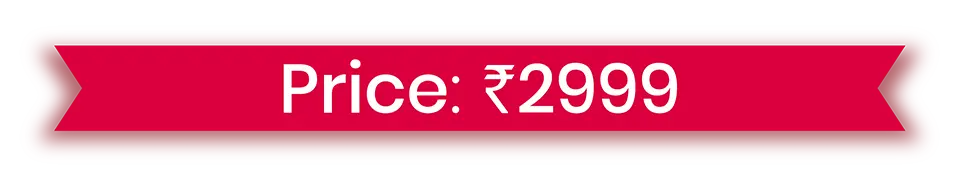
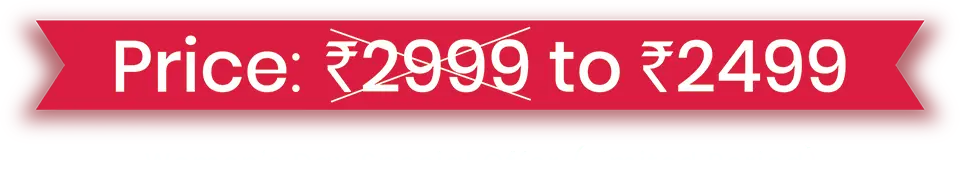
Changes

diff --git a/css/style.css b/css/style.css
@@ -312,6 +312,9 @@ section .inner_container{
 	background-position: center;
 	padding: var(--header-height) 0 0 0;
 }
+.hero .contain_90{
+	margin: auto auto 0 auto;
+}
 .hero .heart{
 	position: absolute;
     left: 6vw;
@@ -324,6 +327,7 @@ section .inner_container{
 }
 .hero .text_box{
 	opacity: 0;
+	padding: 0 0 0 5vw;
 }
 .hero .img_box{
 	opacity: 0;
@@ -344,6 +348,11 @@ section .inner_container{
 }
 .about .heart img{
     transform: rotate(34deg);
+}
+.about .left_pane .img_box{
+	width: 70%;
+	margin: auto;
+	padding: 0 5vw 0 0;
 }
 .about .right_pane{
 	position: relative;
@@ -397,6 +406,11 @@ section .inner_container{
     top: 26%;
     width: 7.2vw;
     z-index: 1;
+}
+.about .text_box .title{
+	color: #fff;
+	font-size: clamp(16px, 1.5vw, 1.5vw);
+	padding: 0 0 3vw;
 }
 .why_love{
 	background: url(../images/bg/webp/white-bg.webp) no-repeat;
@@ -635,6 +649,7 @@ footer .heart{
 footer .price_band{
 	width: 50%;
 	margin: auto;
+	padding: 0 0 1vw;
 }
 footer .offer_valid{
 	font-size: 1.4vw;

diff --git a/css/responsive.css b/css/responsive.css
@@ -241,7 +241,18 @@ section{
 	/*min-height: unset;*/
 }
 .hero{
-	padding: calc(10vw + var(--header-height)) 0 10vw 0;
+	padding: calc(10vw + var(--header-height)) 0 0 0;
+	align-items: unset;
+}
+.hero .contain_90 {
+    margin: 0 auto;
+    display: flex;
+}
+.hero .contain_90 .inner_container{
+    align-items: flex-start;
+}
+.hero .text_box{
+	padding: 10vw 0;
 }
 .hero .heart{
 	width: 20vw;
@@ -257,6 +268,12 @@ section .inner_container p br{
 }
 .about .heart{
 	width: 25%;
+}
+.about .inner_container{
+	flex-wrap: wrap;
+}
+.about .left_pane .img_box{
+	padding: 0 0 10vw;
 }
 .about .right_pane .heart_left{
 	width: 13.5vw;

diff --git a/index.php b/index.php
@@ -14,19 +14,22 @@
         <div class="inner_container">
 
             <div class="width_50">
-                <div class="text_box fade-in-left">
-                    <div class="heading">LOVE, GIFTED LIKE A MASTERPIECE.</div>
-                    <div class="text">
-                        <p>This Valentine’s, give more than words. Gift a <br>
-                            beautifully curated poetry book - Love & Her <br>
-                            Sisters - wrapped like a precious keepsake, <br>
-                            crafted to say what your heart feels.</p>
-                    </div>
+                <div class="img_box fade-in-scale-up">
+                    <!-- <img src="images/girl-with-book.webp"> -->
+                    <img src="images/written-girl.png">
                 </div>
             </div>
             <div class="width_50">
-                <div class="img_box fade-in-scale-up">
-                    <img src="images/girl-with-book.webp">
+                <div class="text_box fade-in-left">
+                    <!-- <div class="heading">LOVE, GIFTED LIKE A MASTERPIECE.</div> -->
+                    <div class="heading">A TRIBUTE TO <br>HER LOVE.</div>
+                    <div class="text">
+                        <!-- <p>This Valentine’s, give more than words. Gift a <br>
+                            beautifully curated poetry book - Love & Her <br>
+                            Sisters - wrapped like a precious keepsake, <br>
+                            crafted to say what your heart feels.</p> -->
+                        <p>This Women’s Day, celebrate the woman who<br> gave without counting.</p>
+                    </div>
                 </div>
             </div>
 
@@ -34,7 +37,7 @@
     </div>
 </section>
 
-<section class="about" id="the-story">
+<!-- <section class="about" id="the-story">
     <div class="heart heart_1"><img src="images/heart.png"></div>
     <div class="contain_90">
         <div class="inner_container">
@@ -68,6 +71,40 @@
                         emotion, wrapped and <br>
                         delivered.
                     </div>
+                </div>
+            </div>
+
+        </div>
+    </div>
+</section> -->
+
+<section class="about" id="the-story">
+    <div class="heart heart_1"><img src="images/heart.png"></div>
+    <div class="contain_90">
+        <div class="inner_container">
+
+            <div class="width_50">
+                <div class="left_pane fade-in-scale-up">
+                    <div class="img_box">
+                        <img src="images/flower.png">
+                    </div>
+                </div>
+            </div>
+            <div class="width_50">
+                <div class="text_box fade-in-left">
+                    <div class="title white">THE MOTHER WHO SACRIFICED COMFORT FOR YOUR DREAMS.<br>
+                        THE GRANDMOTHER WHO CARRIED GENERATIONS WITH GRACE.<br>
+                        THE SISTER WHO BECAME YOUR STRENGTH.</div>
+                    <div class="text">
+                        <p>Love & Her Sisters is more than a book.<br>
+                        It is a poetic keepsake honouring every shade of a woman’s love — from nurturing to fierce, from gentle to resilient.</p>
+                        <p>Encased in an elegant jewellery-inspired box and wrapped in a signature jacket that unfolds to say, ‘You Mean The World To Me,’ this is a gift she will treasure for years.</p>
+                        <br>
+                        <p>She walks with her sisters - Faith, Longing, Silence, Hope.</p>
+                    </div>
+                    <!-- <div class="c2a_btn">
+                        <a href="checkout.php" class="primary_btn">Order Now</a>
+                    </div> -->
                 </div>
             </div>
 

diff --git a/includes/footer.php b/includes/footer.php
@@ -17,11 +17,11 @@
             <div class="c2a_btn">
                 <!-- <a href="https://pages.razorpay.com/pl_RpW0MZFEEk42FD/view" target="_blank" class="pink_btn heartBeat"> -->
                 <a href="checkout.php" class="pink_btn heartBeat">
-                    <span>Pre-Book Now</span>
+                    <span>Order Now</span>
                     <span class="hollow_heart"><img src="images/hollow-heart.svg"></span>
                 </a>
             </div>
-            <div class="last_text  fade-in-up-footer">Limited Valentine’s Edition.<br>
+            <div class="last_text  fade-in-up-footer">Gift her words. Gift her gratitude. Gift her Love & Her Sisters.<br>
                 Position with Poems<br>
                 Turning Moments into Masterpieces Magically.</div>
             <div class="follow_us_instagram">
@@ -111,13 +111,6 @@ new WOW().init();
 <!--slider-->
 <script src="owl-carousel/owl.carousel.js"></script>
 <script src="owl-carousel/owl-content-animation.js"></script>
-
-
-<!-- GSAP core -->
-<script src="https://cdnjs.cloudflare.com/ajax/libs/gsap/3.12.5/gsap.min.js"></script>
-
-<!-- ScrollTrigger plugin -->
-<script src="https://cdnjs.cloudflare.com/ajax/libs/gsap/3.12.5/ScrollTrigger.min.js"></script>
 
 <script src="js/custom.js"></script>
 

diff --git a/includes/header.php b/includes/header.php
@@ -85,6 +85,12 @@ document.addEventListener('DOMContentLoaded', function () {
 
 <script type="text/javascript" src="js/jquery.3.3.1.min.js"></script>
 
+<!-- GSAP core -->
+<script src="https://cdnjs.cloudflare.com/ajax/libs/gsap/3.12.5/gsap.min.js"></script>
+
+<!-- ScrollTrigger plugin -->
+<script src="https://cdnjs.cloudflare.com/ajax/libs/gsap/3.12.5/ScrollTrigger.min.js"></script>
+
 </head>
 
 <body>
@@ -144,7 +150,7 @@ height="0" width="0" style="display:none;visibility:hidden"></iframe></noscript>
         <div class="c2a_btn">
             <!-- <a href="https://pages.razorpay.com/pl_RpW0MZFEEk42FD/view" target="_blank" class="pink_btn heartBeat"> -->
             <a href="checkout.php" class="pink_btn heartBeat">
-                <span>Pre-Book Now</span>
+                <span>Order Now</span>
                 <span class="hollow_heart"><img src="images/hollow-heart.svg"></span>
             </a>
         </div>

diff --git a/config.php b/config.php
@@ -11,7 +11,7 @@ define('RAZORPAY_KEY_SECRET', 'T2bCGkWDZA0Q96Fq6yfD0CtG');
 
 // Product Details
 define('PRODUCT_NAME', 'Love & Her Sisters');
-define('PRODUCT_PRICE', 2999); // Price in Rupees
+define('PRODUCT_PRICE', 2499); // Price in Rupees
 define('CURRENCY', 'INR');
 
 // Delhivery Configuration
